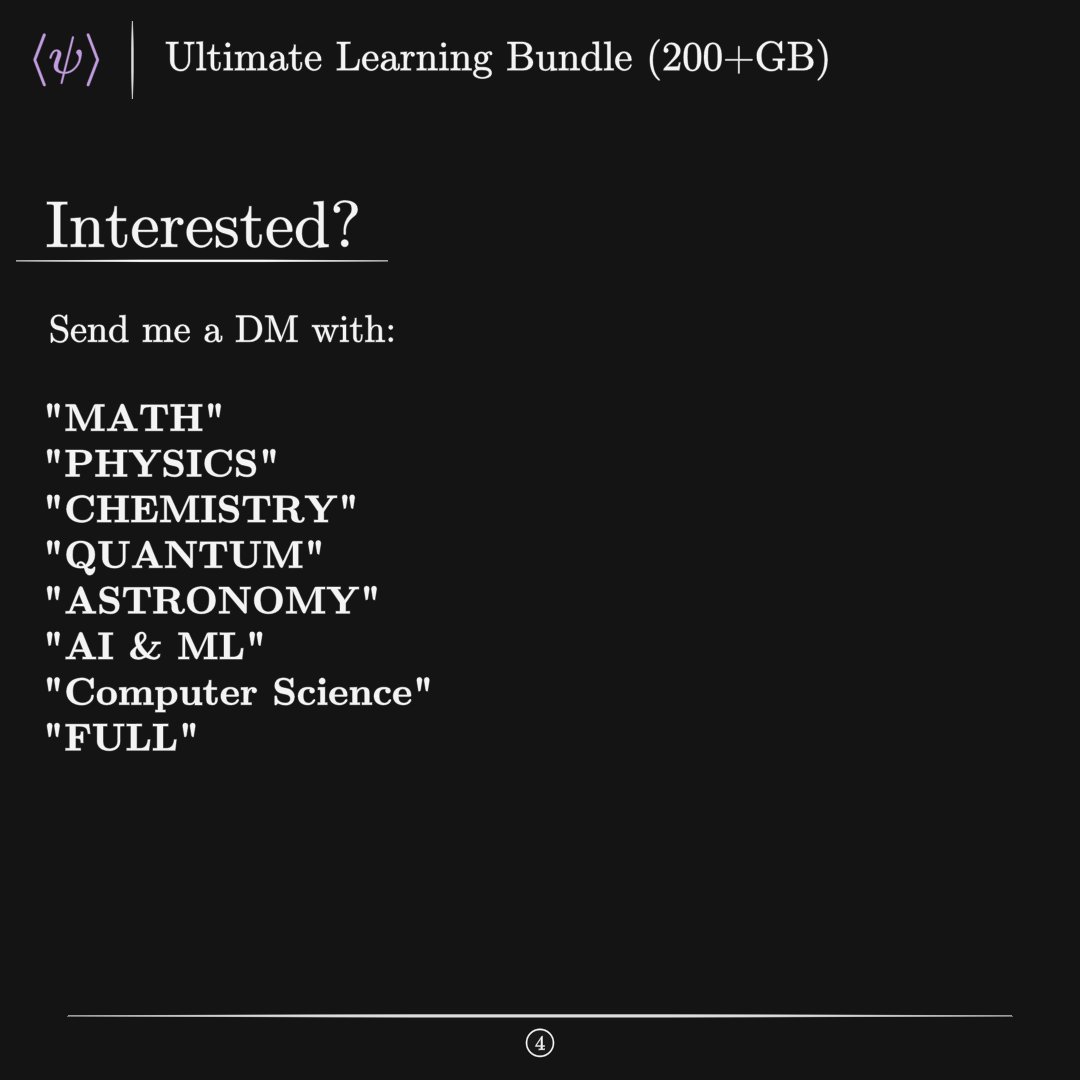
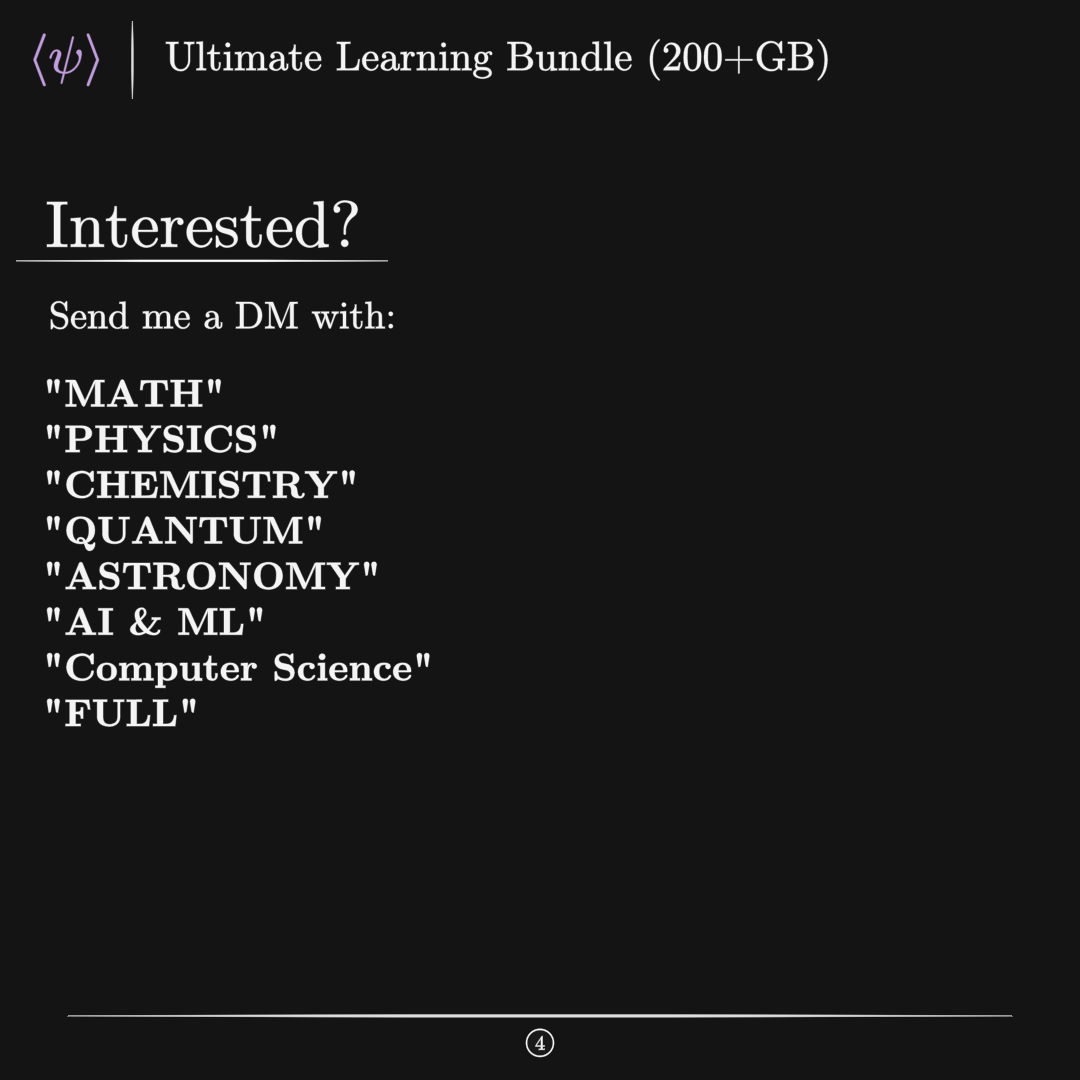
f

Changed region(s): [[0.0306, 0.275, 0.3972, 0.7028]]

diff --git a/test.py b/test.py
@@ -157,7 +157,7 @@ class Payment(PaidTemplate):
 
         body = TexText(
             r"""
-            Send me a DM with:\\[0.4cm]
+            Send me a DM with:\\[0.3cm]
             \textbf{"MATH"}\\
             \textbf{"PHYSICS"}\\
             \textbf{"CHEMISTRY"}\\
@@ -168,5 +168,5 @@ class Payment(PaidTemplate):
             \textbf{"FULL"}
             """, alignment=R"\flushleft", font_size=28,
         )
-        body.next_to(title, DOWN, buff=MED_LARGE_BUFF, aligned_edge=LEFT)
+        body.next_to(title, DOWN, buff=MED_LARGE_BUFF * 0.8, aligned_edge=LEFT)
         self.add(body)

diff --git a/latex_cache/working.tex b/latex_cache/working.tex
@@ -27,7 +27,7 @@
 \begin{document}
 
 \flushleft
-Send me a DM with:\\[0.4cm]
+Send me a DM with:\\[0.3cm]
             \textbf{"MATH"}\\
             \textbf{"PHYSICS"}\\
             \textbf{"CHEMISTRY"}\\
